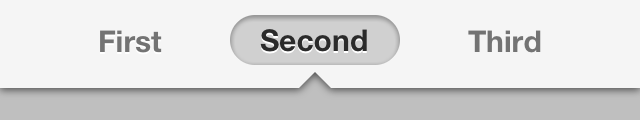
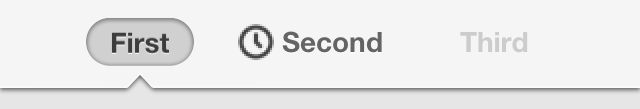
Add support for image (fix #5)

diff --git a/SDSegmentedControl.m b/SDSegmentedControl.m
@@ -13,6 +13,7 @@ const NSTimeInterval kSDSegmentedControlDefaultDuration = 0.2;
 const CGFloat kSDSegmentedControlArrowSize = 6.5;
 const CGFloat kSDSegmentedControlInterItemSpace = 30.0;
 const UIEdgeInsets kSDSegmentedControlStainEdgeInsets = {-3.5, -8, -2.5, -8};
+const CGSize kSDSegmentedControlImageSize = {18, 18};
 
 
 @interface SDSegmentedControl ()
@@ -74,6 +75,7 @@ const UIEdgeInsets kSDSegmentedControlStainEdgeInsets = {-3.5, -8, -2.5, -8};
     _selectedSegmentIndex = -1;
     _interItemSpace = kSDSegmentedControlInterItemSpace;
     _stainEdgeInsets = kSDSegmentedControlStainEdgeInsets;
+    _imageSize = kSDSegmentedControlImageSize;
     __items = NSMutableArray.array;
 
     // Appearance properties
@@ -104,83 +106,51 @@ const UIEdgeInsets kSDSegmentedControlStainEdgeInsets = {-3.5, -8, -2.5, -8};
     self._selectedStainView.backgroundColor = [UIColor colorWithRed:0.816 green:0.816 blue:0.816 alpha:1];
 }
 
-- (void)insertSegmentWithImage:(UIImage *)image atIndex:(NSUInteger)segment animated:(BOOL)animated
+#pragma mark - UIKit API
+
+- (void)insertSegmentWithImage:(UIImage *)image atIndex:(NSUInteger)index animated:(BOOL)animated
 {
-    NSAssert(NO, @"insertSegmentWithImage:atIndex:animated: is not supported on SDSegmentedControl");
+    [self insertSegmentWithTitle:nil image:image atIndex:index animated:animated];
 }
 
-- (UIImage *)imageForSegmentAtIndex:(NSUInteger)segment
+- (UIImage *)imageForSegmentAtIndex:(NSUInteger)index
 {
-    NSAssert(NO, @"imageForSegmentAtIndex: is not supported on SDSegmentedControl");
-    return nil;
+    return [[self segmentAtIndex:index] imageForState:UIControlStateNormal];
 }
 
-- (void)setImage:(UIImage *)image forSegmentAtIndex:(NSUInteger)segment
+- (void)setImage:(UIImage *)image forSegmentAtIndex:(NSUInteger)index
 {
-    NSAssert(NO, @"setImage:forSegmentAtIndex: is not supported on SDSegmentedControl");
+    SDSegmentView* segmentView = [self segmentAtIndex:index];
+    [segmentView setImage:[self scaledImageWithImage:image] forState:UIControlStateNormal];
+    [segmentView sizeToFit];
+    [self setNeedsLayout];
 }
 
-- (void)setTitle:(NSString *)title forSegmentAtIndex:(NSUInteger)segment
+- (void)setTitle:(NSString *)title forSegmentAtIndex:(NSUInteger)index
 {
-    NSUInteger index = MAX(MIN(segment, self.numberOfSegments - 1), 0);
+    index = MAX(MIN(index, self.numberOfSegments - 1), 0);
     UILabel *segmentView = self._items[index];
     segmentView.text = title;
     [segmentView sizeToFit];
     [self setNeedsLayout];
 }
 
-- (NSString *)titleForSegmentAtIndex:(NSUInteger)segment
+- (NSString *)titleForSegmentAtIndex:(NSUInteger)index
 {
-    NSUInteger index = MAX(MIN(segment, self.numberOfSegments - 1), 0);
+    index = MAX(MIN(index, self.numberOfSegments - 1), 0);
     UILabel *segmentView = self._items[index];
     return segmentView.text;
 }
 
-- (void)insertSegmentWithTitle:(NSString *)title atIndex:(NSUInteger)segment animated:(BOOL)animated
+- (void)insertSegmentWithTitle:(NSString *)title atIndex:(NSUInteger)index animated:(BOOL)animated
 {
-    SDSegmentView *segmentView = SDSegmentView.new;
-    [segmentView addTarget:self action:@selector(handleSelect:) forControlEvents:UIControlEventTouchUpInside];
-    segmentView.alpha = 0;
-    [segmentView setTitle:title forState:UIControlStateNormal];
-    [segmentView sizeToFit];
-
-    NSUInteger index = MAX(MIN(segment, self.numberOfSegments), 0);
-    if (index < self._items.count)
-    {
-        segmentView.center = ((UIView *)self._items[index]).center;
-        [self insertSubview:segmentView belowSubview:self._items[index]];
-        [self._items insertObject:segmentView atIndex:index];
-    }
-    else
-    {
-        segmentView.center = self.center;
-        [self addSubview:segmentView];
-        [self._items addObject:segmentView];
-    }
-
-    if (self.selectedSegmentIndex >= index)
-    {
-        self.selectedSegmentIndex++;
-    }
-    _lastSelectedSegmentIndex = self.selectedSegmentIndex;
-
-    if (animated)
-    {
-        [UIView animateWithDuration:.4 animations:^
-        {
-            [self layoutSegments];
-        }];
-    }
-    else
-    {
-        [self setNeedsLayout];
-    }
+    [self insertSegmentWithTitle:title image:nil atIndex:index animated:animated];
 }
 
-- (void)removeSegmentAtIndex:(NSUInteger)segment animated:(BOOL)animated
+- (void)removeSegmentAtIndex:(NSUInteger)index animated:(BOOL)animated
 {
     if (self._items.count == 0) return;
-    NSUInteger index = MAX(MIN(segment, self.numberOfSegments - 1), 0);
+    index = MAX(MIN(index, self.numberOfSegments - 1), 0);
     UIView *segmentView = self._items[index];
     [self._items removeObject:segmentView];
 
@@ -261,6 +231,102 @@ const UIEdgeInsets kSDSegmentedControlStainEdgeInsets = {-3.5, -8, -2.5, -8};
     return  [self segmentAtIndex:index].enabled;
 }
 
+- (void)setSelectedSegmentIndex:(NSInteger)selectedSegmentIndex
+{
+    if (_selectedSegmentIndex != selectedSegmentIndex)
+    {
+        NSParameterAssert(selectedSegmentIndex < (NSInteger)self._items.count);
+        _lastSelectedSegmentIndex = _selectedSegmentIndex;
+        _selectedSegmentIndex = selectedSegmentIndex;
+        [self setNeedsLayout];
+    }
+}
+
+- (NSInteger)selectedSegmentIndex
+{
+    return _selectedSegmentIndex;
+}
+
+# pragma mark - Private
+
+- (UIImage *)scaledImageWithImage:(UIImage*)sourceImage
+{
+    if (!sourceImage) return nil;
+
+    const CGSize sourceSize = sourceImage.size;
+    const CGSize targetSize = self.imageSize;
+    CGSize scaledSize = targetSize;
+    CGPoint origin = CGPointZero;
+
+    if (CGSizeEqualToSize(sourceSize, targetSize) == NO)
+    {
+        CGFloat widthFactor  = targetSize.width  / sourceSize.width;
+        CGFloat heightFactor = targetSize.height / sourceSize.height;
+        CGFloat scaleFactor  = MAX(widthFactor, heightFactor);
+
+        scaledSize.width  = sourceSize.width  * scaleFactor;
+        scaledSize.height = sourceSize.height * scaleFactor;
+
+        // Center the image
+        if (widthFactor > heightFactor)
+        {
+            origin.y = (targetSize.height - scaledSize.height) / 2;
+        }
+        else if (heightFactor > widthFactor)
+        {
+            origin.x = (targetSize.width - scaledSize.width) / 2;
+        }
+    }
+
+    UIGraphicsBeginImageContext(targetSize);
+    [sourceImage drawInRect:(CGRect){origin, scaledSize}];
+    UIImage *targetImage = UIGraphicsGetImageFromCurrentImageContext();
+    UIGraphicsEndImageContext();
+    return targetImage;
+}
+
+- (void)insertSegmentWithTitle:(NSString *)title image:(UIImage *)image atIndex:(NSUInteger)index animated:(BOOL)animated
+{
+    SDSegmentView *segmentView = SDSegmentView.new;
+    [segmentView addTarget:self action:@selector(handleSelect:) forControlEvents:UIControlEventTouchUpInside];
+    segmentView.alpha = 0;
+    [segmentView setTitle:title forState:UIControlStateNormal];
+    [segmentView setImage:[self scaledImageWithImage:image] forState:UIControlStateNormal];
+    [segmentView sizeToFit];
+
+    index = MAX(MIN(index, self.numberOfSegments), 0);
+    if (index < self._items.count)
+    {
+        segmentView.center = ((UIView *)self._items[index]).center;
+        [self insertSubview:segmentView belowSubview:self._items[index]];
+        [self._items insertObject:segmentView atIndex:index];
+    }
+    else
+    {
+        segmentView.center = self.center;
+        [self addSubview:segmentView];
+        [self._items addObject:segmentView];
+    }
+
+    if (self.selectedSegmentIndex >= index)
+    {
+        self.selectedSegmentIndex++;
+    }
+    _lastSelectedSegmentIndex = self.selectedSegmentIndex;
+
+    if (animated)
+    {
+        [UIView animateWithDuration:.4 animations:^
+         {
+             [self layoutSegments];
+         }];
+    }
+    else
+    {
+        [self setNeedsLayout];
+    }
+}
+
 - (NSInteger)firstEnabledSegmentIndexNearIndex:(NSUInteger)index
 {
     // Select the first enabled segment
@@ -306,22 +372,6 @@ const UIEdgeInsets kSDSegmentedControlStainEdgeInsets = {-3.5, -8, -2.5, -8};
 {
     _arrowSize = arrowSize;
     [self setNeedsLayout];
-}
-
-- (void)setSelectedSegmentIndex:(NSInteger)selectedSegmentIndex
-{
-    if (_selectedSegmentIndex != selectedSegmentIndex)
-    {
-        NSParameterAssert(selectedSegmentIndex < (NSInteger)self._items.count);
-        _lastSelectedSegmentIndex = _selectedSegmentIndex;
-        _selectedSegmentIndex = selectedSegmentIndex;
-        [self setNeedsLayout];
-    }
-}
-
-- (NSInteger)selectedSegmentIndex
-{
-    return _selectedSegmentIndex;
 }
 
 - (void)layoutSubviews
@@ -752,9 +802,9 @@ const UIEdgeInsets kSDSegmentedControlStainEdgeInsets = {-3.5, -8, -2.5, -8};
     segmentView.userInteractionEnabled = YES;
     segmentView.contentHorizontalAlignment = UIControlContentHorizontalAlignmentCenter;
     segmentView.contentVerticalAlignment = UIControlContentVerticalAlignmentCenter;
-    segmentView.titleEdgeInsets = UIEdgeInsetsMake(0, 4.0, 0, -4.0); // Space between text and image
-    segmentView.imageEdgeInsets = UIEdgeInsetsMake(0, 4.0, 0, -4.0); // Space between image and stain
-    segmentView.contentEdgeInsets = UIEdgeInsetsMake(0, 0.0, 0,  8.0); // Enlarge touchable area
+    segmentView.titleEdgeInsets = UIEdgeInsetsMake(0, 0.0, 0, -8.0); // Space between text and image
+    segmentView.imageEdgeInsets = UIEdgeInsetsMake(0, 0.0, 0, 0.0); // Space between image and stain
+    segmentView.contentEdgeInsets = UIEdgeInsetsMake(0, 0.0, 0, 8.0); // Enlarge touchable area
 
 #ifdef SDSegmentedControlDebug
     segmentView.backgroundColor            = [UIColor colorWithHue:1.00 saturation:1.0 brightness:1.0 alpha:0.5];

diff --git a/SDSegmentedControl.h b/SDSegmentedControl.h
@@ -15,6 +15,7 @@
 @interface SDSegmentedControl : UISegmentedControl
 
 @property (assign, nonatomic) CGFloat arrowSize UI_APPEARANCE_SELECTOR;
+@property (assign, nonatomic) CGSize imageSize UI_APPEARANCE_SELECTOR;
 @property (assign, nonatomic) CFTimeInterval animationDuration UI_APPEARANCE_SELECTOR;
 @property (assign, nonatomic) CGFloat interItemSpace UI_APPEARANCE_SELECTOR;
 @property (assign, nonatomic) UIEdgeInsets stainEdgeInsets UI_APPEARANCE_SELECTOR;

diff --git a/Example/Example/ViewController.m b/Example/Example/ViewController.m
@@ -52,4 +52,9 @@
     [self.segmentedControl setEnabled:NO forSegmentAtIndex:self.segmentedControl.selectedSegmentIndex];
 }
 
+- (IBAction)addImage:(id)sender
+{
+    [self.segmentedControl setImage:[UIImage imageNamed:@"clock.png"] forSegmentAtIndex:self.segmentedControl.selectedSegmentIndex];
+}
+
 @end

diff --git a/Example/Example/ViewController.h b/Example/Example/ViewController.h
@@ -16,5 +16,6 @@
 - (IBAction)removeSegment:(id)sender;
 - (IBAction)addSegment:(id)sender;
 - (IBAction)disableSegment:(id)sender;
+- (IBAction)addImage:(id)sender;
 
 @end

diff --git a/README.md b/README.md
@@ -7,6 +7,7 @@ controls.
 
 ## Features:
 
+- Segments with image, image and text or text only
 - Interface Builder support (just throw a UISegmentedControl and change
   its class SDSegmentedControl)
 - Animated segment selection
